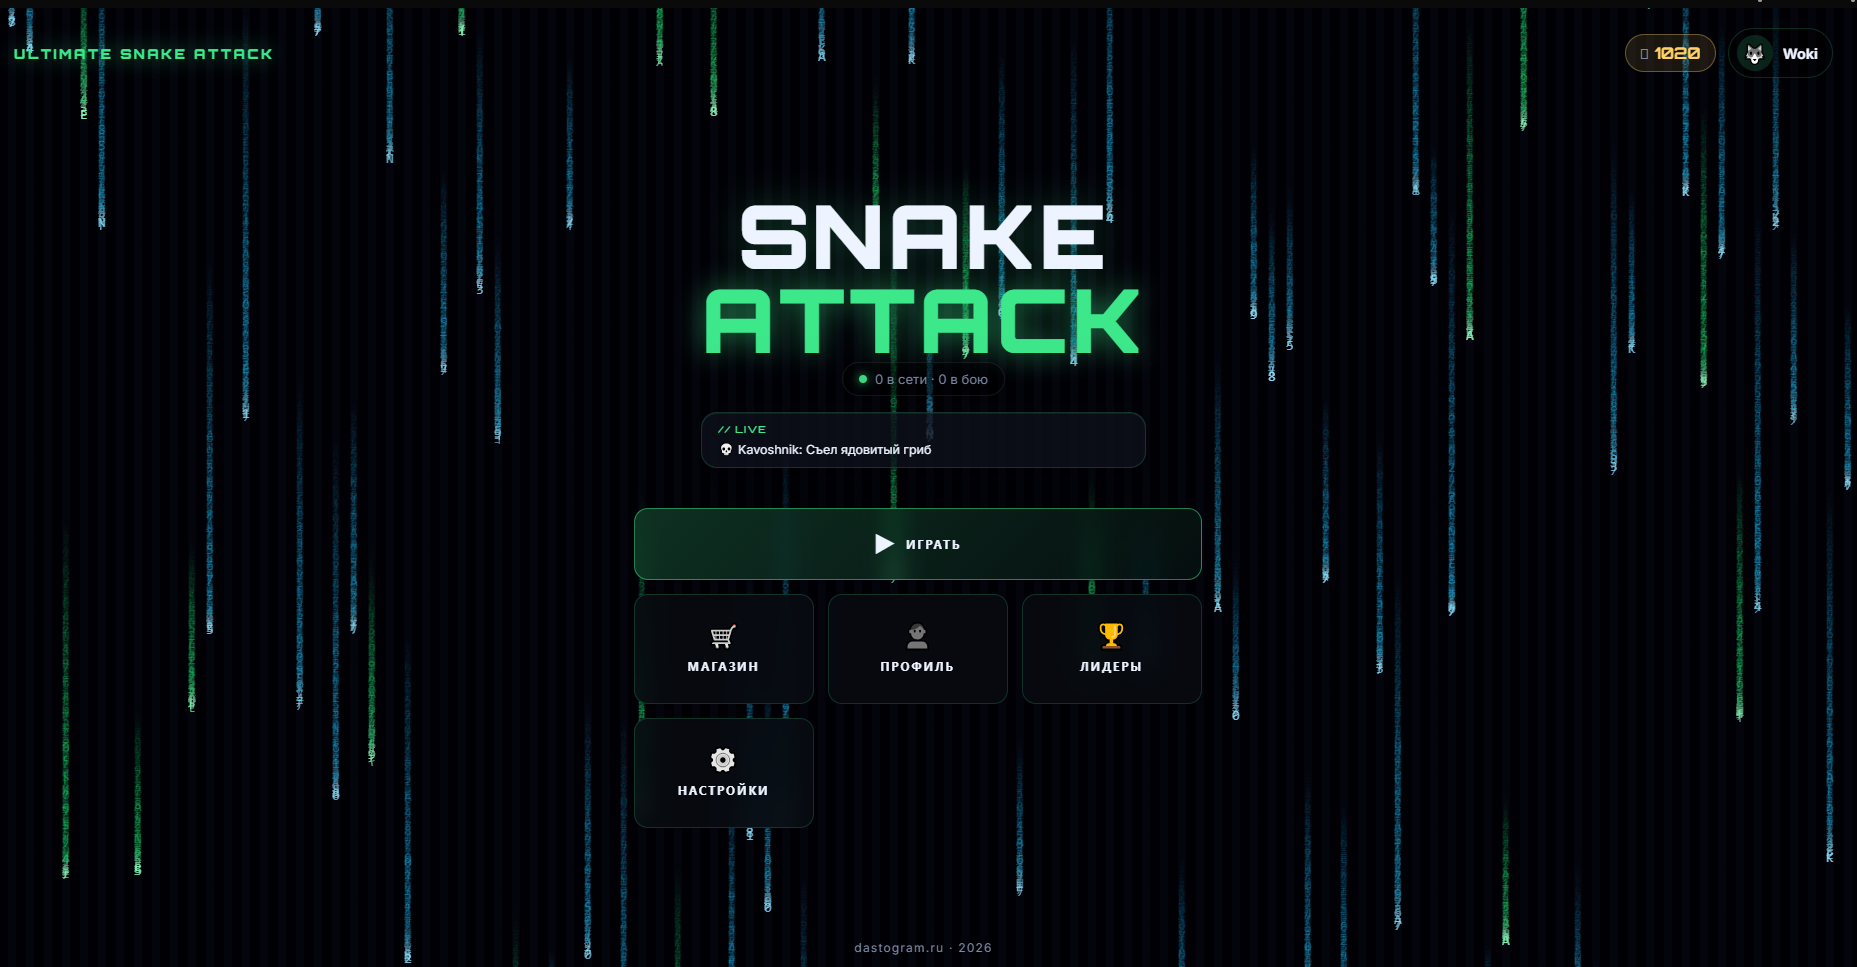
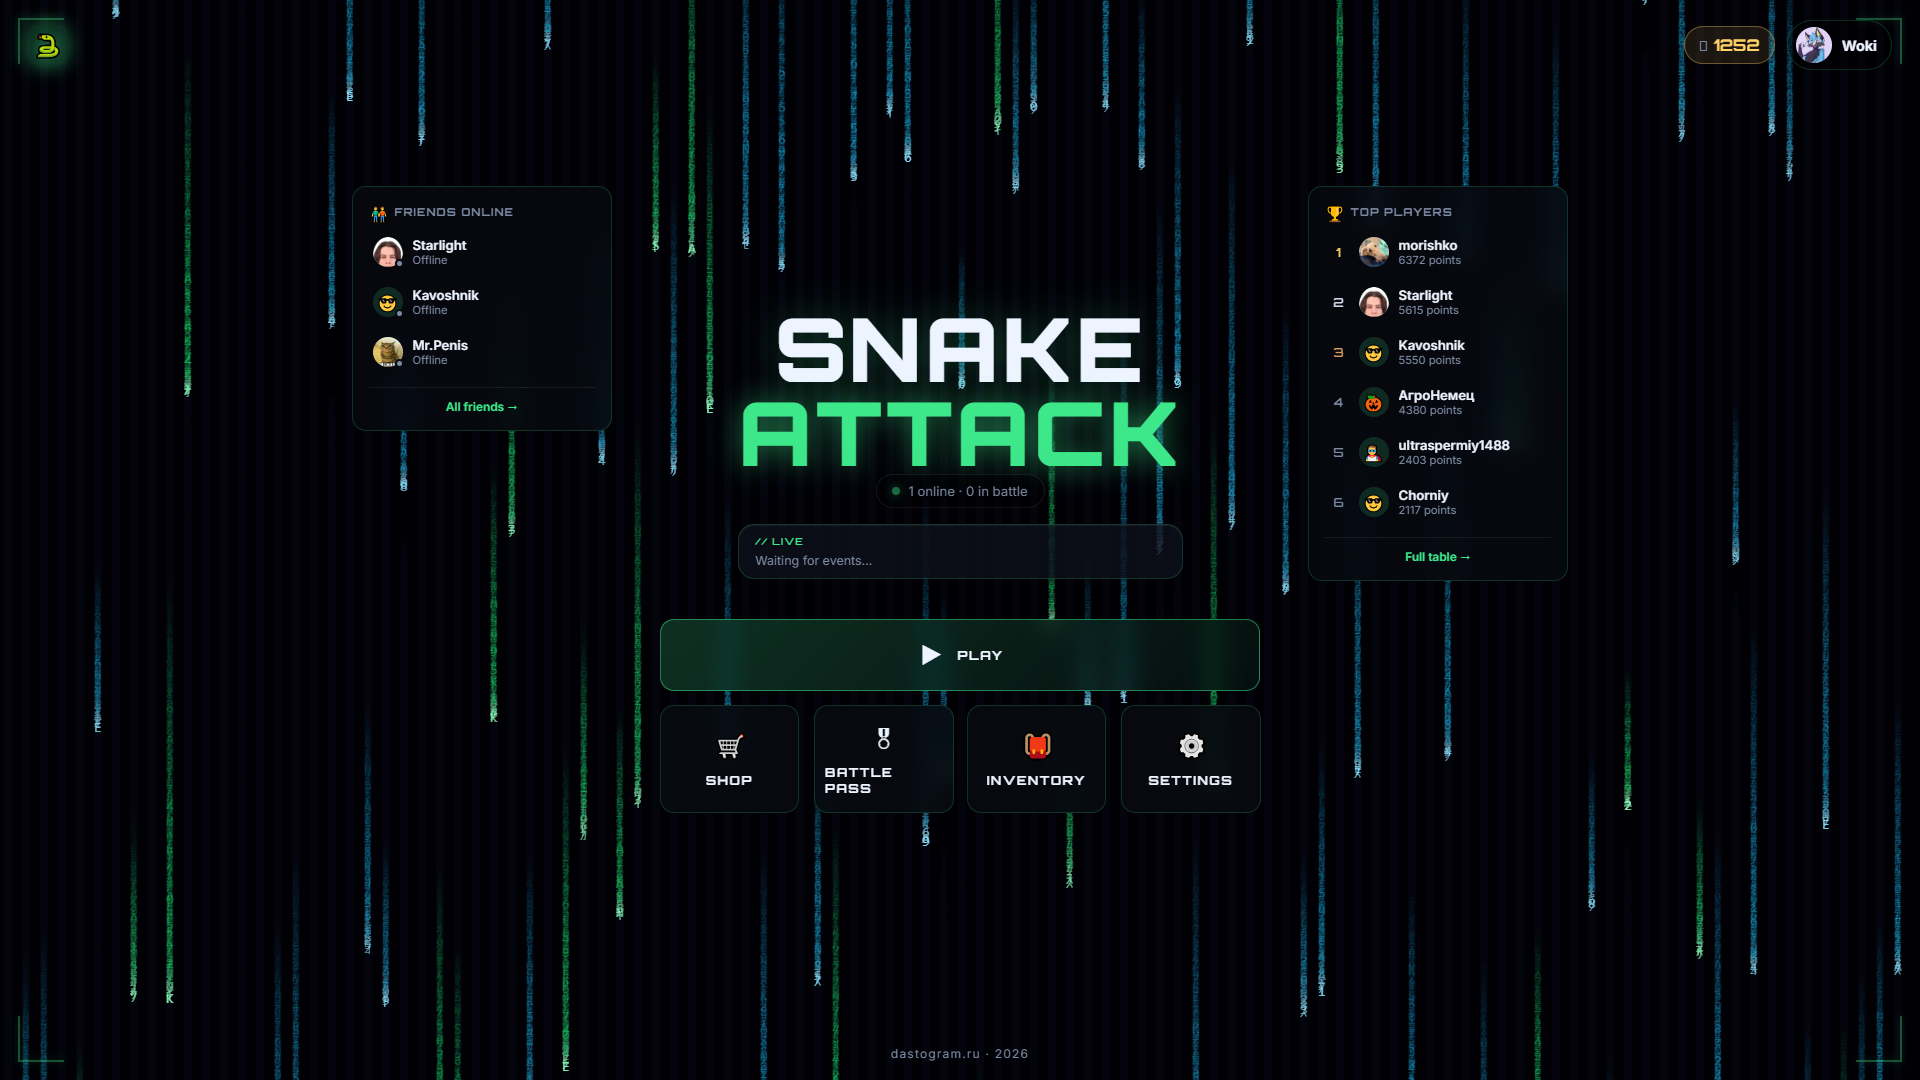
update Readme

diff --git a/README.md b/README.md
@@ -48,14 +48,20 @@
 
 ## СОДЕРЖАНИЕ
 
-- [Трейлер и Галерея](#трейлер-и-галерея)
-- [Особенности](#особенности)
-- [Геймплей](#геймплей)
-- [Магазин и Кастомизация](#магазин-и-кастомизация)
-- [Таблица рекордов](#таблица-рекордов)
-- [Технологии](#технологии)
-- [Лицензия](#лицензия)
-- [Контрибьюторы](#контрибьюторы)
+- [ГАЛЕРЕЯ](#галерея)
+  - [ОСОБЕННОСТИ](#особенности)
+  - [ГЕЙМПЛЕЙ](#геймплей)
+  - [МАГАЗИН И КАСТОМИЗАЦИЯ](#магазин-и-кастомизация)
+    - [Категории скинов](#категории-скинов)
+  - [ТАБЛИЦА РЕКОРДОВ](#таблица-рекордов)
+    - [Система рейтинга](#система-рейтинга)
+  - [ТЕХНОЛОГИИ](#технологии)
+    - [Backend](#backend)
+    - [Frontend](#frontend)
+    - [DevOps](#devops)
+  - [ЛИЦЕНЗИЯ](#лицензия)
+  - [КОНТРИБЬЮТОРЫ](#контрибьюторы)
+  - [🎨 ДИЗАЙН И ИЛЛЮСТРАЦИИ](#-дизайн-и-иллюстрации)
 
 ---
 
@@ -102,8 +108,8 @@
       <h3>Геймплей</h3>
       <ul align="left">
         <li>Классическая змейка с фруктами</li>
-        <li>Яблоко, вишня, виноград</li>
-        <li>Избегайте ядов (гниль, паук)</li>
+        <li>Разнообразная еда</li>
+        <li>Избегайте гнили</li>
         <li>Сбор монет и очков</li>
       </ul>
     </td>
@@ -143,7 +149,8 @@
       <ul align="left">
         <li>Уникальные скины</li>
         <li>Магазин за монеты</li>
-        <li>Легендарные скины</li>
+        <li>Торговая площадка фруктами</li>
+        <li>Фразы для чата</li>
         <li>Особые эффекты</li>
       </ul>
     </td>
@@ -152,7 +159,7 @@
       <ul align="left">
         <li>Онлайн без лимита</li>
         <li>WebSocket real-time</li>
-        <li>Кооперативный режим</li>
+        <li>Личные комнаты</li>
         <li>Игра с друзьями</li>
       </ul>
     </td>
@@ -278,5 +285,30 @@
   </a>
   <a href="https://github.com/KaVoshnik/MultiplayerUltimateSnakeAttack">
     <img src="https://img.shields.io/github/watchers/KaVoshnik/MultiplayerUltimateSnakeAttack?style=social" alt="GitHub watchers" />
+  </a>
+</p>
+
+## 🎨 ДИЗАЙН И ИЛЛЮСТРАЦИИ
+
+<table align="center">
+  <tr>
+    <td align="center">
+      <a href="https://github.com/KaVoshnik">
+        <img src="screenshots/PanikIcon.png" width="70" height="70" style="border-radius: 50%;" alt="@PANIK!" />
+        <br />
+        <strong style="color: #00ff88;">PANIK!</strong>
+      </a>
+    </td>
+  </tr>
+</table>
+<p align="center" style="margin-top: 10px;">
+  <strong>Особая благодарность PANIK! за помощь с дизайном для игры</strong>
+</p>
+<p align="center">
+  <a href="https://t.me/panik_tg">
+    <img src="https://img.shields.io/badge/Telegram-2CA5E0?style=for-the-badge&logo=telegram&logoColor=white" alt="Telegram" />
+  </a>
+  <a href="https://www.tumblr.com/panika34">
+    <img src="https://img.shields.io/badge/Tumblr-36465D?style=for-the-badge&logo=tumblr&logoColor=white" alt="Tumblr" />
   </a>
 </p>